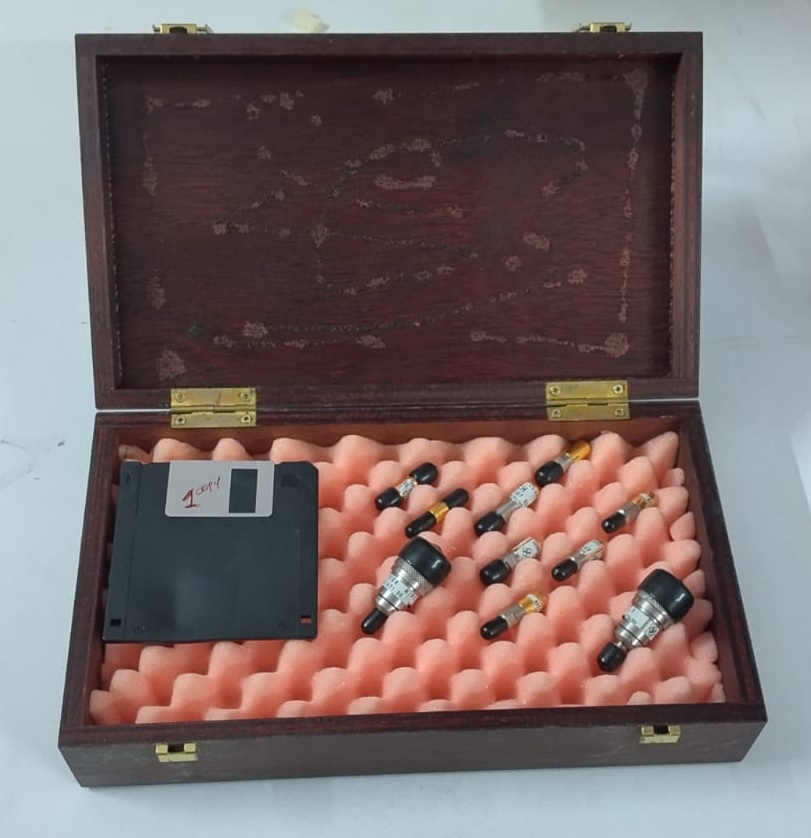
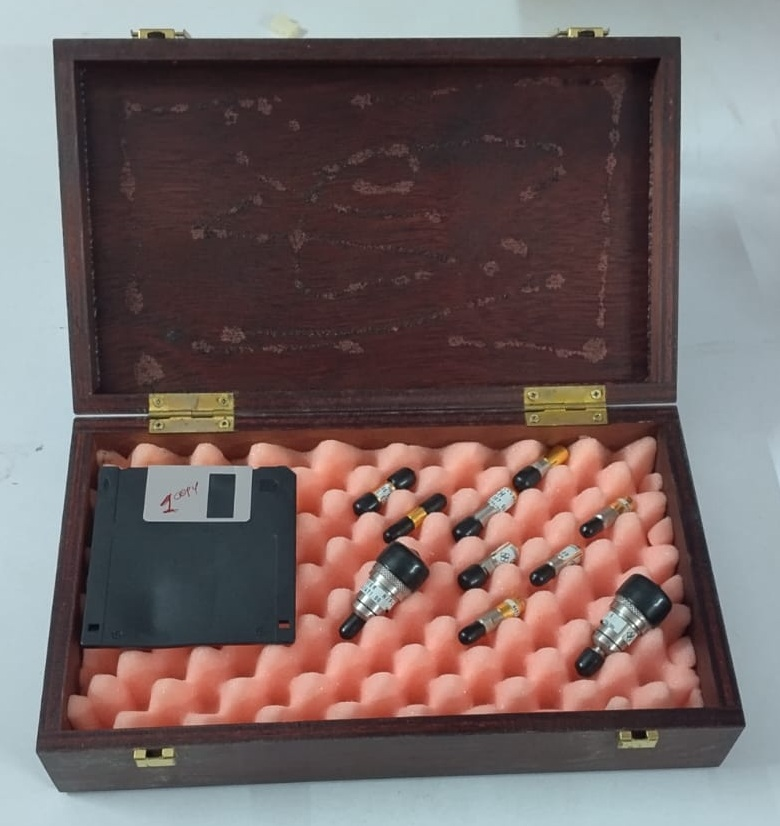
update

diff --git a/src/pages/Productshowroom.jsx b/src/pages/Productshowroom.jsx
@@ -203,17 +203,17 @@ import HEWLETTPACKARD8753D from '../assets/components/HEWLETT PACKARD 8753D.jpeg
 import HEWLETTPACKARD75000SeriesBRepeater from '../assets/components/HEWLETT PACKARD75000 Series B Repeater.png';
 import AGILENT8502A from '../assets/components/AGILENT 8502A.jpg';
 import AGILENT34401A from '../assets/components/AGILENT 34401A.jpeg';
-import AGILENT344AGILENT85092CCOVERINSIDE01A from '../assets/components/AGILENT 85092C COVER INSIDE.jpeg';
-import AGILENT85092CCOVERINSIDE from '../assets/components/AGILENT 85092C COVER INSIDE.jpeg';
 import HEWLETTPACKARD11582A from '../assets/components/HEWLETT PACKARD 11582A.jpeg';
 import THEROELECTRA80110 from '../assets/components/THERO ELECTRA 80110.jpeg';
 import SUHNERHUBERSUHNERAG74Z0070 from '../assets/components/SUHNER HUBER SUHNER AG 74Z-0-0-70.jpeg';
 import ROSENBERGER716CALIBRATIONKIT60CK100150 from '../assets/components/ROSENBERGER 7-16 CALIBRATION KIT 60CK100-150.jpeg';
 import ROHDESSCHWARZZNB8 from '../assets/components/ROHDES & SCHWARZ ZNB8.jpeg';
-import ROHDESCHWARZ1085724702 from '../assets/components/ROHDE & SCHWARZ 1085. 7247.02.jpeg';
 import PROTEKU3000AUNIVERSALCOUNTER from '../assets/components/PROTEK U3000A UNIVERSAL COUNTER.jpeg';
 import HUBERSUHNER74Z0071 from '../assets/components/HUBER-SUHNER 74Z-0-0-71.jpeg';
-import HEWLETTPACKARD11582AINSIDE from '../assets/components/HEWLETT PACKARD 11582A INSIDE.jpeg';
+import ROHDESCHWARZ1085724702INS from '../assets/components/ROHDE & SCHWARZ 1085. 7247.02 INS.jpeg';
+import ROSENBERGER716CALIBRATIONKIT60CK100150IN from '../assets/components/ROSENBERGER 7-16 CALIBRATION KIT 60CK100-150 IN.jpeg';
+import AGILENT85092CCOVER from '../assets/components/AGILENT 85092C COVER.jpeg';
+import HUBERSUHNER 74Z-0-0-70 INS from '../assets/components/HUBER-SUHNER 74Z-0-0-70 INS.png';
 
 
 
@@ -274,18 +274,20 @@ const productsData = [
   { name: "Hewlett Packard 8753D", slug: "hewlett-packard-8753d", image: HEWLETTPACKARD8753D },
   { name: "Hewlett Packard 75000 Series B Repeater", slug: "hewlett-packard-75000-series-b-repeater", image: HEWLETTPACKARD75000SeriesBRepeater },
   { name: "Agilent 8502A", slug: "agilent-8502a", image: AGILENT8502A },
-  { name: "Agilent 85092C Cover Inside", slug: "agilent-85092c-cover-inside", image: AGILENT344AGILENT85092CCOVERINSIDE01A },
   { name: "Agilent 34401A", slug: "agilent-34401a", image: AGILENT34401A },
-  { name: "Agilent 85092C Cover Inside", slug: "agilent-85092c-cover-inside", image: AGILENT85092CCOVERINSIDE },
   { name: "Hewlett Packard 11582A", slug: "hewlett-packard-11582a", image: HEWLETTPACKARD11582A },
   { name: "Thero Electra 80110", slug: "thero-electra-80110", image: THEROELECTRA80110 },
   { name: "SUHNER HUBER SUHNER AG 74Z-0-0-70", slug: "suhner-huber-suhner-ag-74z-0-0-70", image: SUHNERHUBERSUHNERAG74Z0070 },
   { name: "Rosenberger 7-16 Calibration Kit 60CK100-150", slug: "rosenberger-7-16-calibration-kit-60ck100-150", image: ROSENBERGER716CALIBRATIONKIT60CK100150 },
   { name: "Rohde & Schwarz ZNB8", slug: "rohde-schwarz-znb8", image: ROHDESSCHWARZZNB8 },
-  { name: "Rohde & Schwarz 1085. 7247.02", slug: "rohde-schwarz-1085-7247-02", image: ROHDESCHWARZ1085724702 },
+  { name: "Rohde & Schwarz 1085. 7247.02", slug: "rohde-schwarz-1085-7247-02", image: ROHDESCHWARZ1085724702INS },
   { name: "Protek U3000A Universal Counter", slug: "protek-u3000a-universal-counter", image: PROTEKU3000AUNIVERSALCOUNTER },
   { name: "HUBER-SUHNER 74Z-0-0-71", slug: "huber-suhner-74z-0-0-71", image: HUBERSUHNER74Z0071 },
-  { name: "Hewlett Packard 11582A", slug: "hewlett-packard-11582a", image: HEWLETTPACKARD11582A },
+  { name: "Rosenberger 7-16 Calibration Kit 60CK100-150", slug: "rosenberger-7-16-calibration-kit-60ck100-150", image: ROSENBERGER716CALIBRATIONKIT60CK100150IN },
+  { name: "Agilent 85092C Cover", slug: "agilent-85092c-cover", image: AGILENT85092CCOVER },
+  
+
+
 
 
 
